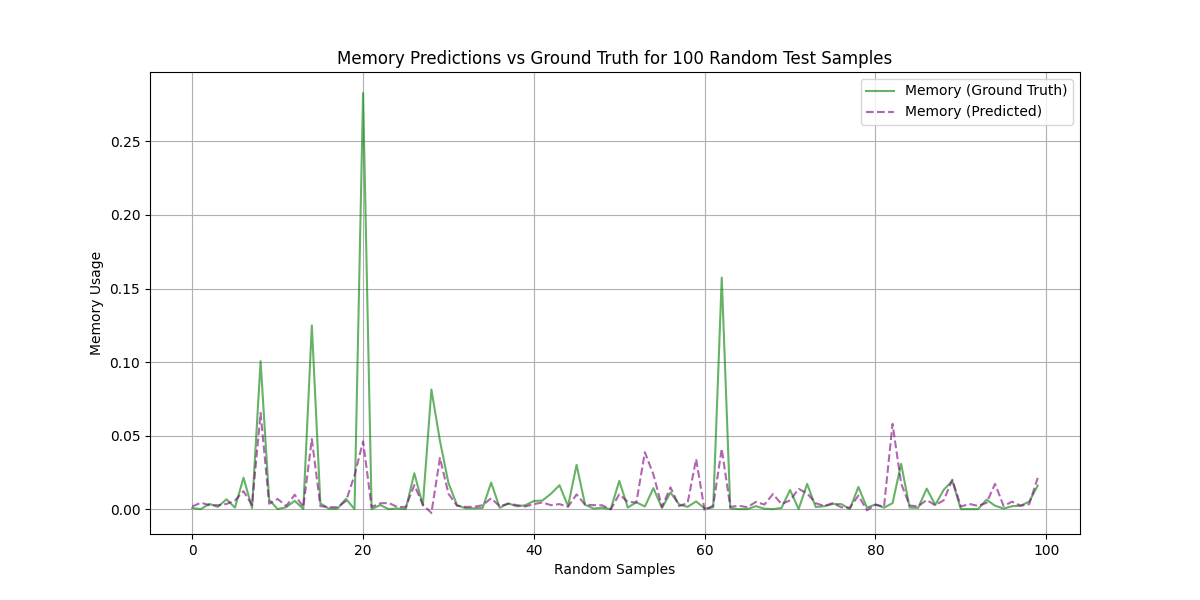
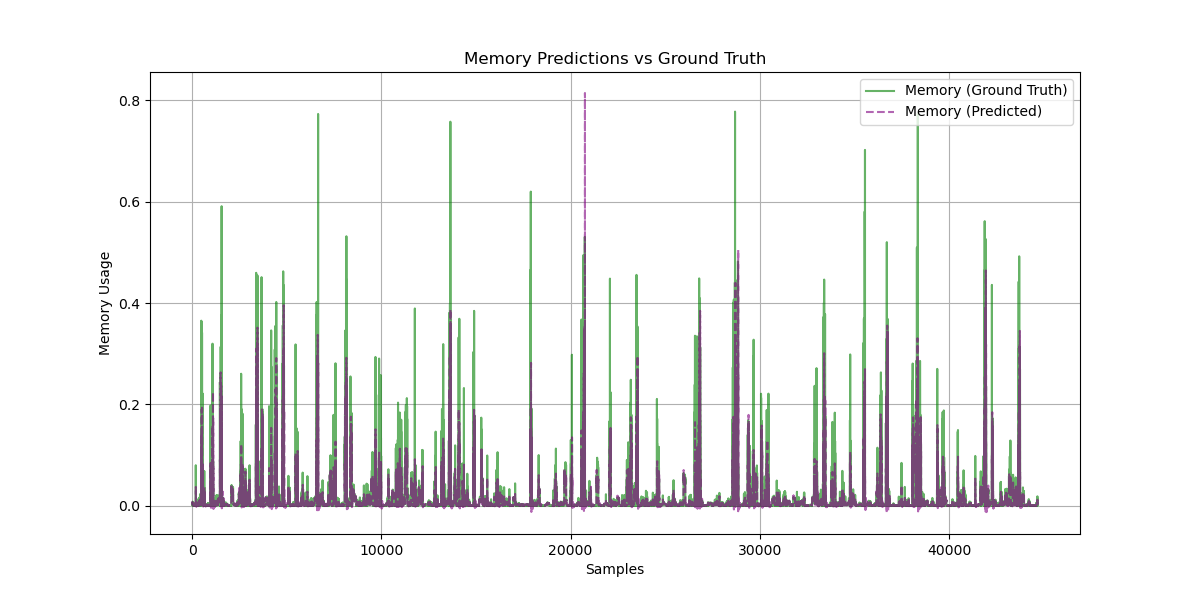
ADD univariate testing supprot

diff --git a/test_uni.py b/test_uni.py
@@ -1,0 +1,142 @@
+import os
+import sys
+import numpy as np
+import torch
+import torch.utils.data as data
+import matplotlib.pyplot as plt
+from myLSTM import LSTMModel
+from myFFNN import FFNNModel
+from myGRU import GRUModel
+from rmse import calculate_rmse
+import random
+
+# Function to load the model based on model type
+def load_model(model_type, input_size, hidden_size, output_size, num_layers, sequence_length, metric):
+    models_dir = 'models_uni'
+    model = None
+    model_lower = model_type.lower()  # Convert model type to lowercase
+    metric_lower = metric.lower()     # Convert metric to lowercase
+
+    model_filename = f"{model_lower}_uni_model_{metric_lower}.pth"
+    model_load_path = os.path.join(models_dir, model_filename)
+
+    # Initialize the model based on the model type
+    if model_type == 'LSTM':
+        model = LSTMModel(input_size, hidden_size, num_layers, output_size)
+    elif model_type == 'FFNN':
+        model = FFNNModel(sequence_length, hidden_size, output_size)  # Set input size to `sequence_length`
+    elif model_type == 'GRU':
+        model = GRUModel(input_size, hidden_size, num_layers, output_size)
+    else:
+        raise ValueError(f"Model type '{model_type}' is not recognized.")
+
+    # Load the model's state dictionary if the file exists
+    if model is not None and os.path.exists(model_load_path):
+        model.load_state_dict(torch.load(model_load_path))
+        print(f'Model loaded from {model_load_path}')
+    else:
+        raise ValueError(f"Model file '{model_filename}' does not exist in '{models_dir}'.")
+
+    return model
+
+def main(model_type, metric):
+    # Hyperparameters
+    input_size = 1  # For univariate time series
+    hidden_size = 64
+    num_layers = 2  # Only used for LSTM and GRU
+    output_size = 1  # Predicting a single feature
+    sequence_length = 99
+    batch_size = 64
+
+    # Load the test set from .npy files
+    save_dir = 'TestSet_uni'
+    metric_lower = metric.lower()  # Convert metric name to lowercase
+    X_test = np.load(os.path.join(save_dir, f'X_test_{metric_lower}.npy'))  # Should be univariate
+    y_test = np.load(os.path.join(save_dir, f'y_test_{metric_lower}.npy'))
+
+    # Print shape of X_test for debugging
+    print("Shape of X_test:", X_test.shape)
+
+    # Convert to PyTorch tensors
+    X_tensor = torch.from_numpy(X_test).float()
+    y_tensor = torch.from_numpy(y_test).float()
+
+    # Create dataset and dataloader
+    dataset = data.TensorDataset(X_tensor, y_tensor)
+    data_loader = data.DataLoader(dataset=dataset, batch_size=batch_size, shuffle=False)
+
+    # Load the model
+    model = load_model(model_type, input_size, hidden_size, output_size, num_layers, sequence_length, metric)
+    model.eval()  # Set the model to evaluation mode
+
+    predictions = []
+    ground_truth = []
+
+    # Test the model
+    with torch.no_grad():
+        for X_batch, y_batch in data_loader:
+            print("Shape of X_batch before reshaping:", X_batch.shape)  # Debugging statement
+            
+            if model_type == 'FFNN':
+                # Flatten input for FFNN to match (batch_size, sequence_length)
+                X_batch = X_batch.view(X_batch.size(0), sequence_length)  # Flatten for FFNN input
+            
+            print("Shape of X_batch after reshaping:", X_batch.shape)  # Debugging statement
+
+            preds = model(X_batch).detach().numpy()
+            predictions.extend(preds)
+            ground_truth.extend(y_batch.numpy())
+
+
+    # Rescale predictions and ground truth (if needed)
+    scaler = None  # Use a scaler if necessary
+    predictions_rescaled = np.array(predictions).reshape(-1, output_size)
+    ground_truth_rescaled = np.array(ground_truth).reshape(-1, output_size)
+
+    # Calculate RMSE for the specified metric
+    rmse = calculate_rmse(predictions_rescaled, ground_truth_rescaled)
+    print(f'RMSE for {metric}: {rmse:.4f}')
+
+    # Plot the results for the specified metric
+    plt.figure(figsize=(12, 6))
+    
+    # Plot ground truth and predicted values for visualization
+    plt.plot(range(len(ground_truth_rescaled)), ground_truth_rescaled, color='green', alpha=0.6, 
+             label=f'{metric} (Ground Truth)')
+    plt.plot(range(len(predictions_rescaled)), predictions_rescaled, linestyle='--', color='purple', 
+             alpha=0.6, label=f'{metric} (Predicted)')
+    
+    plt.title(f'{metric} Predictions vs Ground Truth')
+    plt.xlabel('Samples')
+    plt.ylabel(f'{metric} Usage')
+    plt.grid()
+    plt.legend([f'{metric} (Ground Truth)', f'{metric} (Predicted)'])
+    
+    # Save the plot
+    images_dir = 'Images'
+    if not os.path.exists(images_dir):
+        os.makedirs(images_dir)
+    plot_file = os.path.join(images_dir, f'{model_type.lower()}_{metric_lower}_predictions_vs_ground_truth.png')
+    plt.savefig(plot_file)
+    plt.show()
+
+if __name__ == "__main__":
+    # Check if the correct number of command line arguments is provided
+    if len(sys.argv) != 3:
+        print("Usage: python3 test_uni.py <model_type> <metric>")
+        sys.exit(1)
+
+    model_type_arg = sys.argv[1]
+    metric_arg = sys.argv[2]
+    valid_model_types = ['LSTM', 'FFNN', 'GRU']
+    valid_metrics = ['CPU', 'Memory', 'Disk Write', 'Network Received']
+
+    if model_type_arg not in valid_model_types:
+        print(f"Invalid model type. Choose from: {', '.join(valid_model_types)}")
+        sys.exit(1)
+    
+    if metric_arg not in valid_metrics:
+        print(f"Invalid metric. Choose from: {', '.join(valid_metrics)}")
+        sys.exit(1)
+
+    main(model_type_arg, metric_arg)

diff --git a/save_test_set_uni.py b/save_test_set_uni.py
@@ -1,0 +1,44 @@
+import os
+import numpy as np
+from data import load_data, scale_data, create_sequences
+
+def save_test_set_univariate():
+    # Hyperparameters
+    sequence_length = 99
+    train_test_ratio = 0.8
+
+    # Load and preprocess data
+    filename = 'workload_series.npy'
+    data_reshaped = load_data(filename)
+    data_scaled, _ = scale_data(data_reshaped)  # No need for scaler in this case
+
+    # Define metrics/features for univariate prediction
+    metrics = ['CPU', 'Memory', 'Disk Write', 'Network Received']
+
+    # Create directory for saving test sets if it doesn't exist
+    save_dir = 'TestSet_uni'
+    if not os.path.exists(save_dir):
+        os.makedirs(save_dir)
+
+    for feature_index, metric in enumerate(metrics):
+        # Extract the feature column for univariate prediction
+        y = data_scaled[:, feature_index]  # Univariate target for the current metric
+
+        # Only take one feature column for X to ensure univariate structure
+        data_scaled_univariate = data_scaled[:, feature_index:feature_index+1]
+
+        # Create sequences for the current metric
+        X, y = create_sequences(data_scaled_univariate, sequence_length, 1)
+
+        # Split the data into training and testing sets
+        train_size = int(len(X) * train_test_ratio)
+        X_test, y_test = X[train_size:], y[train_size:]
+
+        # Save the test set for the current metric as .npy files
+        np.save(os.path.join(save_dir, f'X_test_{metric.lower()}.npy'), X_test)
+        np.save(os.path.join(save_dir, f'y_test_{metric.lower()}.npy'), y_test)
+
+        print(f'Test set saved for {metric} as .npy files in the {save_dir} directory.')
+
+if __name__ == "__main__":
+    save_test_set_univariate()
